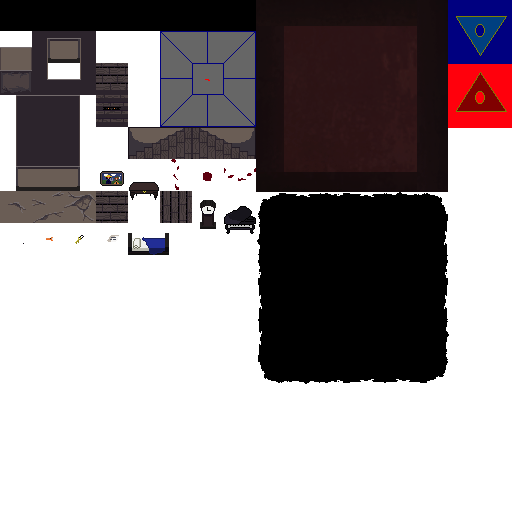
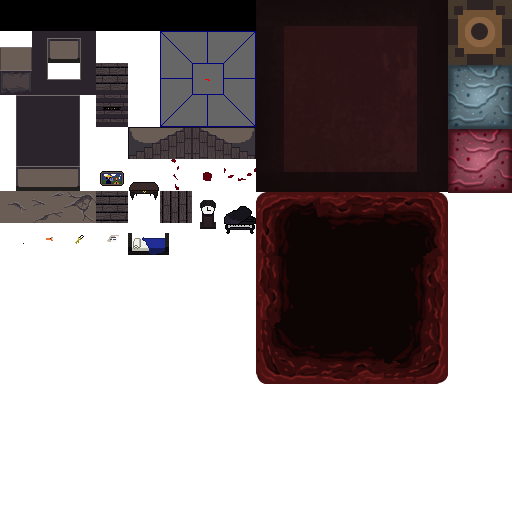
added doormat region for locked doors which opens them

Changed region(s): [[0.5, 0.375, 0.875, 0.75], [0.875, 0.0, 1.0, 0.375]]

diff --git a/core/src/com/gameoff/game/objects/Door.java b/core/src/com/gameoff/game/objects/Door.java
@@ -3,16 +3,21 @@ package com.gameoff.game.objects;
 import com.badlogic.gdx.maps.MapProperties;
 import com.badlogic.gdx.utils.Array;
 import com.gameoff.game.GameOffGame;
+import com.gameoff.game.control.*;
+import com.gameoff.game.objects.DoorMat;
 import com.kyperbox.controllers.CollisionController.CollisionData;
-import com.kyperbox.objects.GameObject;
+import com.kyperbox.objects.*;
 import com.badlogic.gdx.graphics.g2d.Animation.PlayMode;
 import com.kyperbox.GameState;
 import com.kyperbox.controllers.AnimationController;
 import com.gameoff.game.ZOrder;
+import com.badlogic.gdx.graphics.g2d.Sprite;
 
 public class Door extends Basic {
   int m_code = 0;
   String m_aName = "do";
+  BasicGameObject m_keyHole = null;
+  DoorMat m_doorMat = null;
 
   // 0 = no door, 1 = open, 2 = closed, 3 = closed and locked
   public Door(int doorCode, GameState state) {
@@ -38,6 +43,16 @@ public class Door extends Basic {
     getAnimation().setPlaySpeed(1f);
   }
 
+  public BasicGameObject getKeyHole()
+  {
+    return m_keyHole;
+  }
+
+  public DoorMat getDoorMat()
+  {
+    return m_doorMat;
+  }
+
   @Override
   public void init(MapProperties properties) {
     super.init(properties);
@@ -57,41 +72,33 @@ public class Door extends Basic {
       setSprite("door_open_0");
       getMove().setPhysical(true);
       doDoorState(false);
+
+      if (m_code == 3)
+      {
+        m_keyHole = new BasicGameObject();
+        m_keyHole.setSprite("key_hole");
+        Sprite sprite = getState().getGameSprite("key_hole");
+        m_keyHole.setSize(sprite.getWidth(), sprite.getHeight());
+        m_keyHole.setPosition(getX(), getY());
+        ZOrderControl zorder = new ZOrderControl();
+        zorder.setZOrder(ZOrder.KEYHOLE);
+        m_keyHole.addController(zorder);
+        this.getGameLayer().addGameObject(m_keyHole, null);
+
+        m_doorMat = new DoorMat(this);
+        this.getGameLayer().addGameObject(m_doorMat, null);
+      }
     }
     getAnimation().setPlaySpeed(2f);
-
   }
-  
-  @Override
-	public void update(float delta) {
-	  
-	  super.update(delta);
-	  
-	  Array<CollisionData> cols = getCollision().getCollisions();
-	  if(m_code == 3 && cols.size > 0) {
-		  for (int i = 0; i < cols.size; i++) {
-			CollisionData d = cols.get(i);
-			GameObject target = d.getTarget();
-			if(target instanceof Player) {
-				if (m_code == 3)
-         {        
-            Player p = (Player)target;
-            if (p.useKey())
-            {
-              unlock();
-              open();
-            }
-         }
-        }
-		  }
-	  }
-	}
 
   public void unlock()
   {
     if (m_code == 3) 
     {
       m_code = 2;
+      m_keyHole.remove();
+      m_keyHole = null;
     }
   }
 

diff --git a/core/src/com/gameoff/game/objects/DoorMat.java b/core/src/com/gameoff/game/objects/DoorMat.java
@@ -1,0 +1,53 @@
+package com.gameoff.game.objects;
+
+import com.badlogic.gdx.maps.MapProperties;
+import com.badlogic.gdx.utils.Array;
+import com.gameoff.game.GameOffGame;
+import com.gameoff.game.control.*;
+import com.kyperbox.controllers.CollisionController.CollisionData;
+import com.kyperbox.objects.*;
+import com.badlogic.gdx.graphics.g2d.Animation.PlayMode;
+import com.kyperbox.GameState;
+import com.kyperbox.controllers.AnimationController;
+import com.gameoff.game.ZOrder;
+import com.badlogic.gdx.graphics.g2d.Sprite;
+
+public class DoorMat extends Basic {
+
+  Door m_door = null;
+  public DoorMat(Door d) {
+    getMove().setPassable(true);
+    m_door = d;
+    //setSprite("noregion");
+    setSize(m_door.getWidth() -60, 5);
+  }
+
+  @Override
+  public void init(MapProperties properties) {
+    super.init(properties);
+    removeController(getHealth());
+  }
+  
+  @Override
+  public void update(float delta) {
+    
+    super.update(delta);
+    
+    Array<CollisionData> cols = getCollision().getCollisions();
+    if(cols.size > 0) {
+      for (int i = 0; i < cols.size; i++) {
+      CollisionData d = cols.get(i);
+      GameObject target = d.getTarget();
+      if(target instanceof Player) {   
+        System.out.println("HIT DOOR MAT!");
+          Player p = (Player)target;
+          if (p.useKey())
+          {
+            m_door.unlock();
+            m_door.open();
+          }
+        }
+      }
+    }
+  }
+}

diff --git a/core/src/com/gameoff/game/managers/LevelManager.java b/core/src/com/gameoff/game/managers/LevelManager.java
@@ -378,6 +378,21 @@ public class LevelManager extends StateManager {
 
 				d.setPosition(x, y);
 				o.setPosition(x, y);
+				if (d.getKeyHole() != null)
+				{
+					d.getKeyHole().setRotation(rot);
+					d.getKeyHole().setPosition(x,y);
+
+					d.getDoorMat().setRotation(rot);
+					if (dir == 0)
+						d.getDoorMat().setPosition(x+30,y-5);
+					else if (dir == 2)
+						d.getDoorMat().setPosition(x+30,y+dh);
+					else if (dir == 1)
+						d.getDoorMat().setPosition(x-84,y+110);
+					else if (dir == 3)
+						d.getDoorMat().setPosition(x+144,y+110);
+				}
 
 			} else {
 				// just place full walls

diff --git a/core/src/com/gameoff/game/ZOrder.java b/core/src/com/gameoff/game/ZOrder.java
@@ -18,6 +18,8 @@ public class ZOrder {
 	// FOREGROUND +1 or FOREGROUND-1 ect.
 	public static final int FOREGROUND = 10;// foreground layer
 	public static final int PLAYER = 30; // player layer
+
+  public static final int KEYHOLE = 48;
 	public static final int DOORS = 50;
 	public static final int FLOOR_TEXT = 61;
 	public static final int BACKGROUND = 100; // background layer
